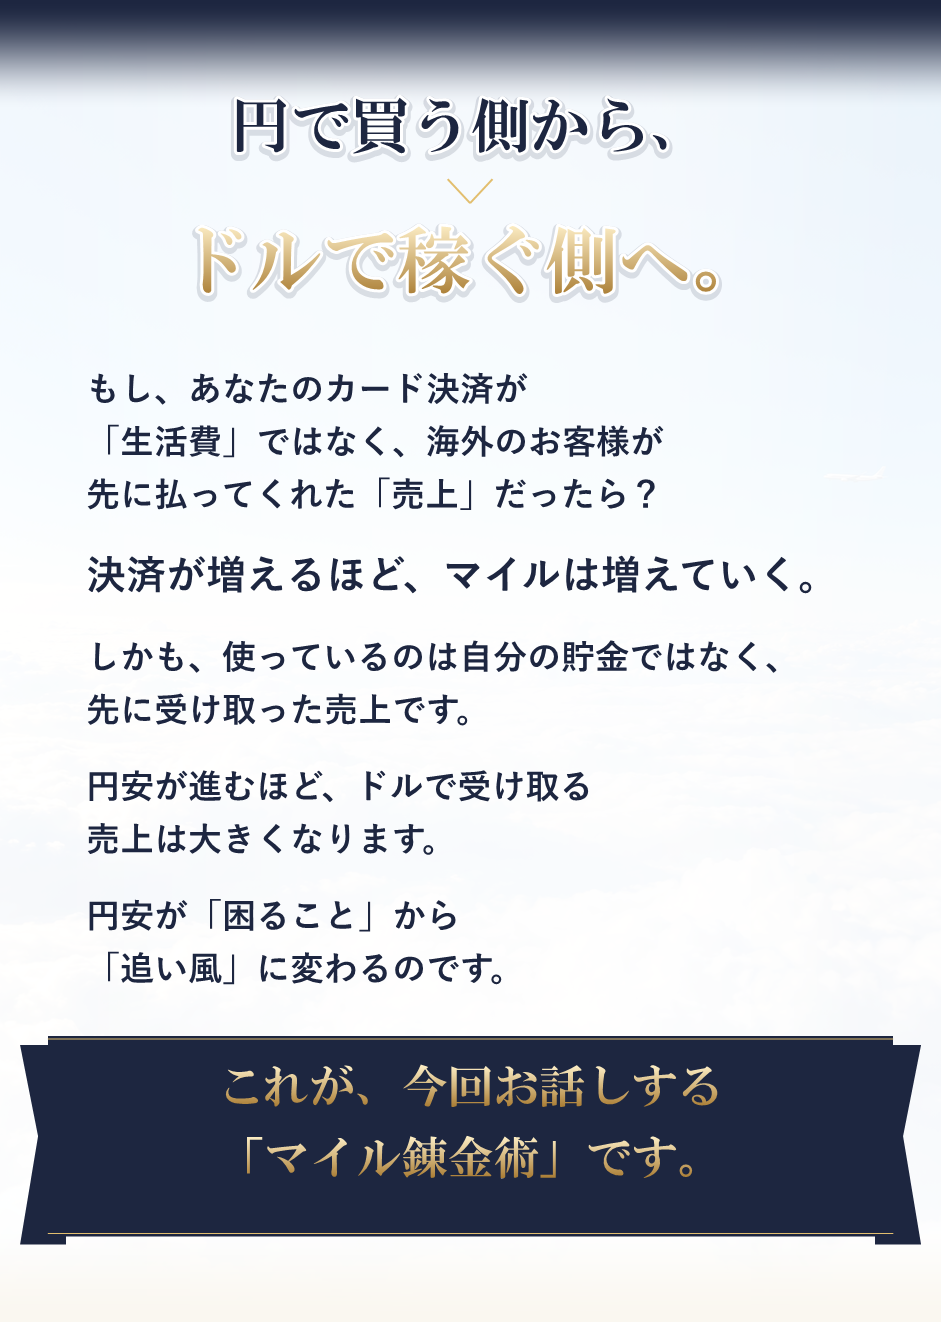
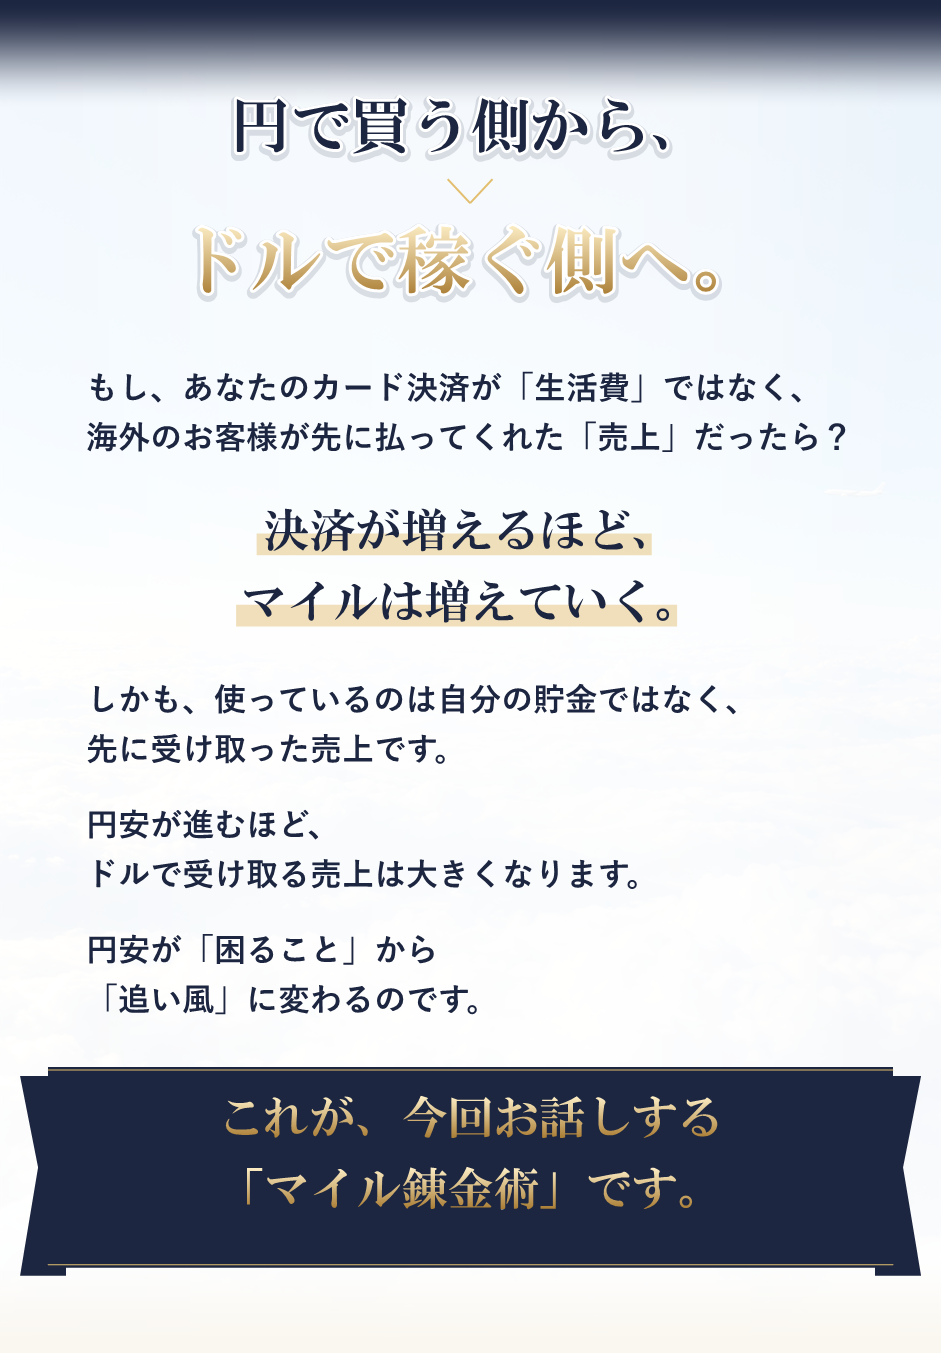
ebay-seminar-lp-2: 追従バナーをフォームのボタンと同じ幅に・番号を円と帯の中央に・改行と文字サイズを統一
- 追従バナー PC 390px→680px（スマホはフォームのボタンと同じ幅）
- ①②③など丸数字・帯の番号を上下左右の中央に（02/05/06/07/08/15/16/17）
- 改行を読点・意味の区切りでそろえ、本文の文字サイズを統一、強調は明朝＋下線マーカーで区別
- 05の注記を※のぶら下げで整形

diff --git a/ebay-seminar-lp-2/index.html b/ebay-seminar-lp-2/index.html
@@ -1,12 +1,12 @@
 <!doctype html><html lang="ja"><head><meta charset="utf-8"><meta name="viewport" content="width=device-width, initial-scale=1"><meta name="robots" content="noindex, nofollow"><title>稼ぎながら無料で世界を飛び回る！eBay輸出×AI×マイル錬金術</title><link rel="stylesheet" href="https://fonts.googleapis.com/css2?family=Shippori+Mincho+B1:wght@700;800&amp;family=Klee+One:wght@600&amp;family=Noto+Sans+JP:wght@400&amp;display=swap"><style>
 *{box-sizing:border-box}html{scroll-behavior:smooth}body{margin:0;color:#133858;background:#e8e5df;font-family:"Yu Gothic","Hiragino Kaku Gothic ProN",sans-serif}body.v2{background:#dfe5ec;color:#1d2640}body.v3{background:#e4eef1;color:#1b2f5b}
-.lp{width:100%;max-width:800px;margin:0 auto;background:#f2f8fd;padding-bottom:calc(110px + env(safe-area-inset-bottom,0px))}img{display:block;width:100%;height:auto}.hero{position:relative}
+.lp{width:100%;max-width:800px;margin:0 auto;background:#f2f8fd;padding-bottom:calc(min(100vw - 64px,680px)*.18 + 40px + env(safe-area-inset-bottom,0px))}img{display:block;width:100%;height:auto}.hero{position:relative}
 .cta{background:#f2f8fd;padding:24px 16px 28px;scroll-margin-top:16px}.cta-card{padding:28px 16px 24px;background:linear-gradient(145deg,#fcf8f5,#f4f0e7);border:1px solid #c8a759;box-shadow:0 5px 18px #1338580b}.cta h2{font:700 22px/1.65 "Shippori Mincho B1","Yu Mincho","Hiragino Mincho ProN",serif;text-align:center;margin:0 0 14px;text-wrap:balance}.note{font-family:"Noto Sans JP","Yu Gothic","Hiragino Kaku Gothic ProN",sans-serif;font-weight:400;font-size:12px;line-height:1.85;margin:10px 0;overflow-wrap:break-word}.cta .intro,.cta .free{text-align:center}.cta form{margin:20px 0 14px}.cta input{display:block;width:100%;min-width:0;min-height:52px;padding:12px 14px;border:1px solid #899aaa;border-radius:4px;background:white;color:#133858;font:400 16px/1.5 "Yu Gothic",sans-serif}.cta input::placeholder{color:#657181;opacity:1}.cta input:focus-visible{outline:2px solid #169aa6;outline-offset:3px}.cta button{display:block;width:min(100%,calc(min(100vw,800px)*.85));margin:16px auto 0;padding:0;border:0;background:transparent;cursor:pointer}.cta button:focus-visible,.floating-cta:focus-visible{outline:3px solid #169aa6;outline-offset:4px;border-radius:16px}
 .v2 .cta-card{background:#1d2640;color:#fff1c9;border:3px double #e2be6e;box-shadow:0 5px 18px #1d264016}.v2 .cta h2{font-family:"Shippori Mincho B1","HG明朝E","Yu Mincho","Hiragino Mincho ProN",serif;font-weight:800;color:#fff1c9}.v2 .cta .note{color:#faf7f0}.v2 .legal-note{color:#1d2640}
 .v3 .cta-card{background:radial-gradient(ellipse at 4% 0%,#dceff8b0,transparent 45%),radial-gradient(ellipse at 95% 100%,#b8deec70,transparent 45%),#fbf6ee;border:1px solid #169aa66b;border-radius:18px 24px 20px 28px;box-shadow:0 0 16px 5px #169aa610}.v3 .cta h2{font-family:"Klee One","UD デジタル 教科書体 NK","Yu Mincho",serif;font-weight:600;color:#1b2f5b}.legal-note{padding:10px 24px 6px}.footer{padding:12px 22px 28px;text-align:center;font-size:12px;line-height:2.2;overflow-wrap:break-word}.footer a{color:inherit;text-underline-offset:4px}
-.floating-cta{position:fixed;left:50%;bottom:max(14px,env(safe-area-inset-bottom));transform:translateX(-50%);z-index:20;width:min(92vw,390px);display:block}.floating-cta[hidden]{display:none}
+.floating-cta{position:fixed;left:50%;bottom:max(14px,env(safe-area-inset-bottom));transform:translateX(-50%);z-index:20;width:min(calc(100vw - 64px),680px);display:block}.floating-cta[hidden]{display:none}
 @media(prefers-reduced-motion:reduce){html{scroll-behavior:auto}}
-</style></head><body class="v2"><main class="lp"><div class="hero"><img src="images/01-first-view-C5-03.png" alt="稼ぎながら、無料で世界を飛び回る！" width="941" height="1769" fetchpriority="high"></div><section class="cta" id="form1" aria-labelledby="heading1"><div class="cta-card"><h2 id="heading1" data-copy="CTA1-01">メールアドレスとLINE登録だけでOK！</h2><p class="note intro" data-copy="CTA1-02">※参加URLは、公式LINEでお届けします。</p><form action="#cta-link" method="get"><input data-copy="CTA1-03" type="email" name="email" required autocomplete="email" placeholder="メールアドレスを入力" aria-label="メールアドレスを入力"><button type="submit"><img src="images/cta-button_案2.png" alt="無料でセミナーに参加する" width="800" height="142" data-copy="CTA1-04"></button></form><p class="note" data-copy="CTA1-05">※ボタンを押すと、公式LINEの友だち追加の画面が開きます（パソコンの方はQRコードが表示されます）</p><p class="note free" data-copy="CTA1-06">※参加は無料です</p></div></section><img src="images/02-problem.png" alt="こんなこと、感じていませんか？" width="941" height="1417" class="section-image" decoding="async"><img src="images/03-numbers.png" alt="たとえば、毎月10万円をカードで払っても、貯まるのは1年で約12,000マイル。" width="941" height="1246" class="section-image" decoding="async"><img src="images/04-bridge.png" alt="円で買う側から、ドルで稼ぐ側へ。" width="941" height="1322" class="section-image" decoding="async"><img src="images/05-five-values.png" alt="たった1回の取引で生まれる、3つの価値" width="941" height="1142" class="section-image" decoding="async"><img src="images/06-walls-1.png" alt="物販は大変そう？そう思う方へ" width="941" height="1316" class="section-image" decoding="async"><img src="images/07-walls-2.png" alt="④ 出品が面倒" width="941" height="1009" class="section-image" decoding="async"><section class="cta" id="form2" aria-labelledby="heading2"><div class="cta-card"><h2 id="heading2" data-copy="CTA2-01">メールアドレスとLINE登録だけでOK！</h2><p class="note intro" data-copy="CTA2-02">※参加URLは、公式LINEでお届けします。</p><form action="#cta-link" method="get"><input data-copy="CTA2-03" type="email" name="email" required autocomplete="email" placeholder="メールアドレスを入力" aria-label="メールアドレスを入力"><button type="submit"><img src="images/cta-button_案2.png" alt="無料でセミナーに参加する" width="800" height="142" data-copy="CTA2-04"></button></form><p class="note" data-copy="CTA2-05">※ボタンを押すと、公式LINEの友だち追加の画面が開きます（パソコンの方はQRコードが表示されます）</p><p class="note free" data-copy="CTA2-06">※参加は無料です</p></div></section><img src="images/08-learn.png" alt="このセミナーで分かること" width="941" height="1564" class="section-image" decoding="async"><img src="images/09-for-whom.png" alt="こんな方のためのセミナーです" width="941" height="1355" class="section-image" decoding="async"><img src="images/10-instructor-1.png" alt="講師紹介" width="941" height="1527" class="section-image" decoding="async"><img src="images/11-instructor-2.png" alt="独自のAIシステムと実践型のサポート体制をつくり、未経験者でも段階的に成果を目指せる仕組みづくりに力を注いでいる。MBA（経営学修士）の知識を活かし、感覚だけに頼らず、データ分析・戦略・仕組み化の観点から指導している。" width="941" height="1199" class="section-image" decoding="async"><img src="images/12-instructor-masuda.png" alt="増田 和彦" width="941" height="1394" class="section-image" decoding="async"><img src="images/13-overview.png" alt="開催概要" width="941" height="1534" class="section-image" decoding="async"><img src="images/14-bonus.png" alt="参加特典" width="941" height="1458" class="section-image" decoding="async"><img src="images/15-steps.png" alt="参加までの流れ" width="941" height="1159" class="section-image" decoding="async"><section class="cta" id="form3" aria-labelledby="heading3"><div class="cta-card"><h2 id="heading3" data-copy="CTA3-01">メールアドレスとLINE登録だけでOK！</h2><p class="note intro" data-copy="CTA3-02">※参加URLは、公式LINEでお届けします。</p><form action="#cta-link" method="get"><input data-copy="CTA3-03" type="email" name="email" required autocomplete="email" placeholder="メールアドレスを入力" aria-label="メールアドレスを入力"><button type="submit"><img src="images/cta-button_案2.png" alt="無料でセミナーに参加する" width="800" height="142" data-copy="CTA3-04"></button></form><p class="note" data-copy="CTA3-05">※ボタンを押すと、公式LINEの友だち追加の画面が開きます（パソコンの方はQRコードが表示されます）</p><p class="note free" data-copy="CTA3-06">※参加は無料です</p></div></section><img src="images/16-faq-1.png" alt="よくある質問" width="941" height="1496" class="section-image" decoding="async"><img src="images/17-faq-2.png" alt="Q. セミナーで何かを買わされませんか？" width="941" height="1253" class="section-image" decoding="async"><img src="images/18-final-1.png" alt="最後に" width="941" height="1663" class="section-image" decoding="async"><img src="images/19-final-2.png" alt="まずは10月27日、話を聞くところから始めてみてください。" width="941" height="1001" class="section-image" decoding="async"><section class="cta" id="form4" aria-labelledby="heading4"><div class="cta-card"><h2 id="heading4" data-copy="CTA4-01">メールアドレスとLINE登録だけでOK！</h2><p class="note intro" data-copy="CTA4-02">※参加URLは、公式LINEでお届けします。</p><form action="#cta-link" method="get"><input data-copy="CTA4-03" type="email" name="email" required autocomplete="email" placeholder="メールアドレスを入力" aria-label="メールアドレスを入力"><button type="submit"><img src="images/cta-button_案2.png" alt="無料でセミナーに参加する" width="800" height="142" data-copy="CTA4-04"></button></form><p class="note" data-copy="CTA4-05">※ボタンを押すと、公式LINEの友だち追加の画面が開きます（パソコンの方はQRコードが表示されます）</p><p class="note free" data-copy="CTA4-06">※参加は無料です</p></div></section><p class="note legal-note" data-copy="NOTE-01">※ご紹介している実績は講師・受講生個人のものであり、成果を保証するものではありません。</p><footer class="footer" data-copy="FOOTER-01"><a href="#">特定商取引法に基づく表記</a>　｜　<a href="#">プライバシーポリシー</a></footer></main><a class="floating-cta" href="#form1" aria-label="無料でセミナーに参加する" hidden><img src="images/cta-button_案2.png" alt="" width="800" height="142" ></a><script>
+</style></head><body class="v2"><main class="lp"><div class="hero"><img src="images/01-first-view-C5-03.png" alt="稼ぎながら、無料で世界を飛び回る！" width="941" height="1769" fetchpriority="high"></div><section class="cta" id="form1" aria-labelledby="heading1"><div class="cta-card"><h2 id="heading1" data-copy="CTA1-01">メールアドレスとLINE登録だけでOK！</h2><p class="note intro" data-copy="CTA1-02">※参加URLは、公式LINEでお届けします。</p><form action="#cta-link" method="get"><input data-copy="CTA1-03" type="email" name="email" required autocomplete="email" placeholder="メールアドレスを入力" aria-label="メールアドレスを入力"><button type="submit"><img src="images/cta-button_案2.png" alt="無料でセミナーに参加する" width="800" height="142" data-copy="CTA1-04"></button></form><p class="note" data-copy="CTA1-05">※ボタンを押すと、公式LINEの友だち追加の画面が開きます（パソコンの方はQRコードが表示されます）</p><p class="note free" data-copy="CTA1-06">※参加は無料です</p></div></section><img src="images/02-problem.png" alt="こんなこと、感じていませんか？" width="941" height="1417" class="section-image" decoding="async"><img src="images/03-numbers.png" alt="たとえば、毎月10万円をカードで払っても、貯まるのは1年で約12,000マイル。" width="941" height="1235" class="section-image" decoding="async"><img src="images/04-bridge.png" alt="円で買う側から、ドルで稼ぐ側へ。" width="941" height="1353" class="section-image" decoding="async"><img src="images/05-five-values.png" alt="たった1回の取引で生まれる、3つの価値" width="941" height="1107" class="section-image" decoding="async"><img src="images/06-walls-1.png" alt="物販は大変そう？そう思う方へ" width="941" height="1316" class="section-image" decoding="async"><img src="images/07-walls-2.png" alt="④ 出品が面倒" width="941" height="1009" class="section-image" decoding="async"><section class="cta" id="form2" aria-labelledby="heading2"><div class="cta-card"><h2 id="heading2" data-copy="CTA2-01">メールアドレスとLINE登録だけでOK！</h2><p class="note intro" data-copy="CTA2-02">※参加URLは、公式LINEでお届けします。</p><form action="#cta-link" method="get"><input data-copy="CTA2-03" type="email" name="email" required autocomplete="email" placeholder="メールアドレスを入力" aria-label="メールアドレスを入力"><button type="submit"><img src="images/cta-button_案2.png" alt="無料でセミナーに参加する" width="800" height="142" data-copy="CTA2-04"></button></form><p class="note" data-copy="CTA2-05">※ボタンを押すと、公式LINEの友だち追加の画面が開きます（パソコンの方はQRコードが表示されます）</p><p class="note free" data-copy="CTA2-06">※参加は無料です</p></div></section><img src="images/08-learn.png" alt="このセミナーで分かること" width="941" height="1614" class="section-image" decoding="async"><img src="images/09-for-whom.png" alt="こんな方のためのセミナーです" width="941" height="1377" class="section-image" decoding="async"><img src="images/10-instructor-1.png" alt="講師紹介" width="941" height="1527" class="section-image" decoding="async"><img src="images/11-instructor-2.png" alt="独自のAIシステムと実践型のサポート体制をつくり、未経験者でも段階的に成果を目指せる仕組みづくりに力を注いでいる。MBA（経営学修士）の知識を活かし、感覚だけに頼らず、データ分析・戦略・仕組み化の観点から指導している。" width="941" height="1199" class="section-image" decoding="async"><img src="images/12-instructor-masuda.png" alt="増田 和彦" width="941" height="1394" class="section-image" decoding="async"><img src="images/13-overview.png" alt="開催概要" width="941" height="1534" class="section-image" decoding="async"><img src="images/14-bonus.png" alt="参加特典" width="941" height="1458" class="section-image" decoding="async"><img src="images/15-steps.png" alt="参加までの流れ" width="941" height="1097" class="section-image" decoding="async"><section class="cta" id="form3" aria-labelledby="heading3"><div class="cta-card"><h2 id="heading3" data-copy="CTA3-01">メールアドレスとLINE登録だけでOK！</h2><p class="note intro" data-copy="CTA3-02">※参加URLは、公式LINEでお届けします。</p><form action="#cta-link" method="get"><input data-copy="CTA3-03" type="email" name="email" required autocomplete="email" placeholder="メールアドレスを入力" aria-label="メールアドレスを入力"><button type="submit"><img src="images/cta-button_案2.png" alt="無料でセミナーに参加する" width="800" height="142" data-copy="CTA3-04"></button></form><p class="note" data-copy="CTA3-05">※ボタンを押すと、公式LINEの友だち追加の画面が開きます（パソコンの方はQRコードが表示されます）</p><p class="note free" data-copy="CTA3-06">※参加は無料です</p></div></section><img src="images/16-faq-1.png" alt="よくある質問" width="941" height="1546" class="section-image" decoding="async"><img src="images/17-faq-2.png" alt="Q. セミナーで何かを買わされませんか？" width="941" height="1303" class="section-image" decoding="async"><img src="images/18-final-1.png" alt="最後に" width="941" height="1653" class="section-image" decoding="async"><img src="images/19-final-2.png" alt="まずは10月27日、話を聞くところから始めてみてください。" width="941" height="979" class="section-image" decoding="async"><section class="cta" id="form4" aria-labelledby="heading4"><div class="cta-card"><h2 id="heading4" data-copy="CTA4-01">メールアドレスとLINE登録だけでOK！</h2><p class="note intro" data-copy="CTA4-02">※参加URLは、公式LINEでお届けします。</p><form action="#cta-link" method="get"><input data-copy="CTA4-03" type="email" name="email" required autocomplete="email" placeholder="メールアドレスを入力" aria-label="メールアドレスを入力"><button type="submit"><img src="images/cta-button_案2.png" alt="無料でセミナーに参加する" width="800" height="142" data-copy="CTA4-04"></button></form><p class="note" data-copy="CTA4-05">※ボタンを押すと、公式LINEの友だち追加の画面が開きます（パソコンの方はQRコードが表示されます）</p><p class="note free" data-copy="CTA4-06">※参加は無料です</p></div></section><p class="note legal-note" data-copy="NOTE-01">※ご紹介している実績は講師・受講生個人のものであり、成果を保証するものではありません。</p><footer class="footer" data-copy="FOOTER-01"><a href="#">特定商取引法に基づく表記</a>　｜　<a href="#">プライバシーポリシー</a></footer></main><a class="floating-cta" href="#form1" aria-label="無料でセミナーに参加する" hidden><img src="images/cta-button_案2.png" alt="" width="800" height="142" ></a><script>
 (()=>{
  const sections=[...document.querySelectorAll('.cta')], floating=document.querySelector('.floating-cta');
  document.querySelectorAll('form').forEach(form=>form.addEventListener('submit',event=>event.preventDefault()));
